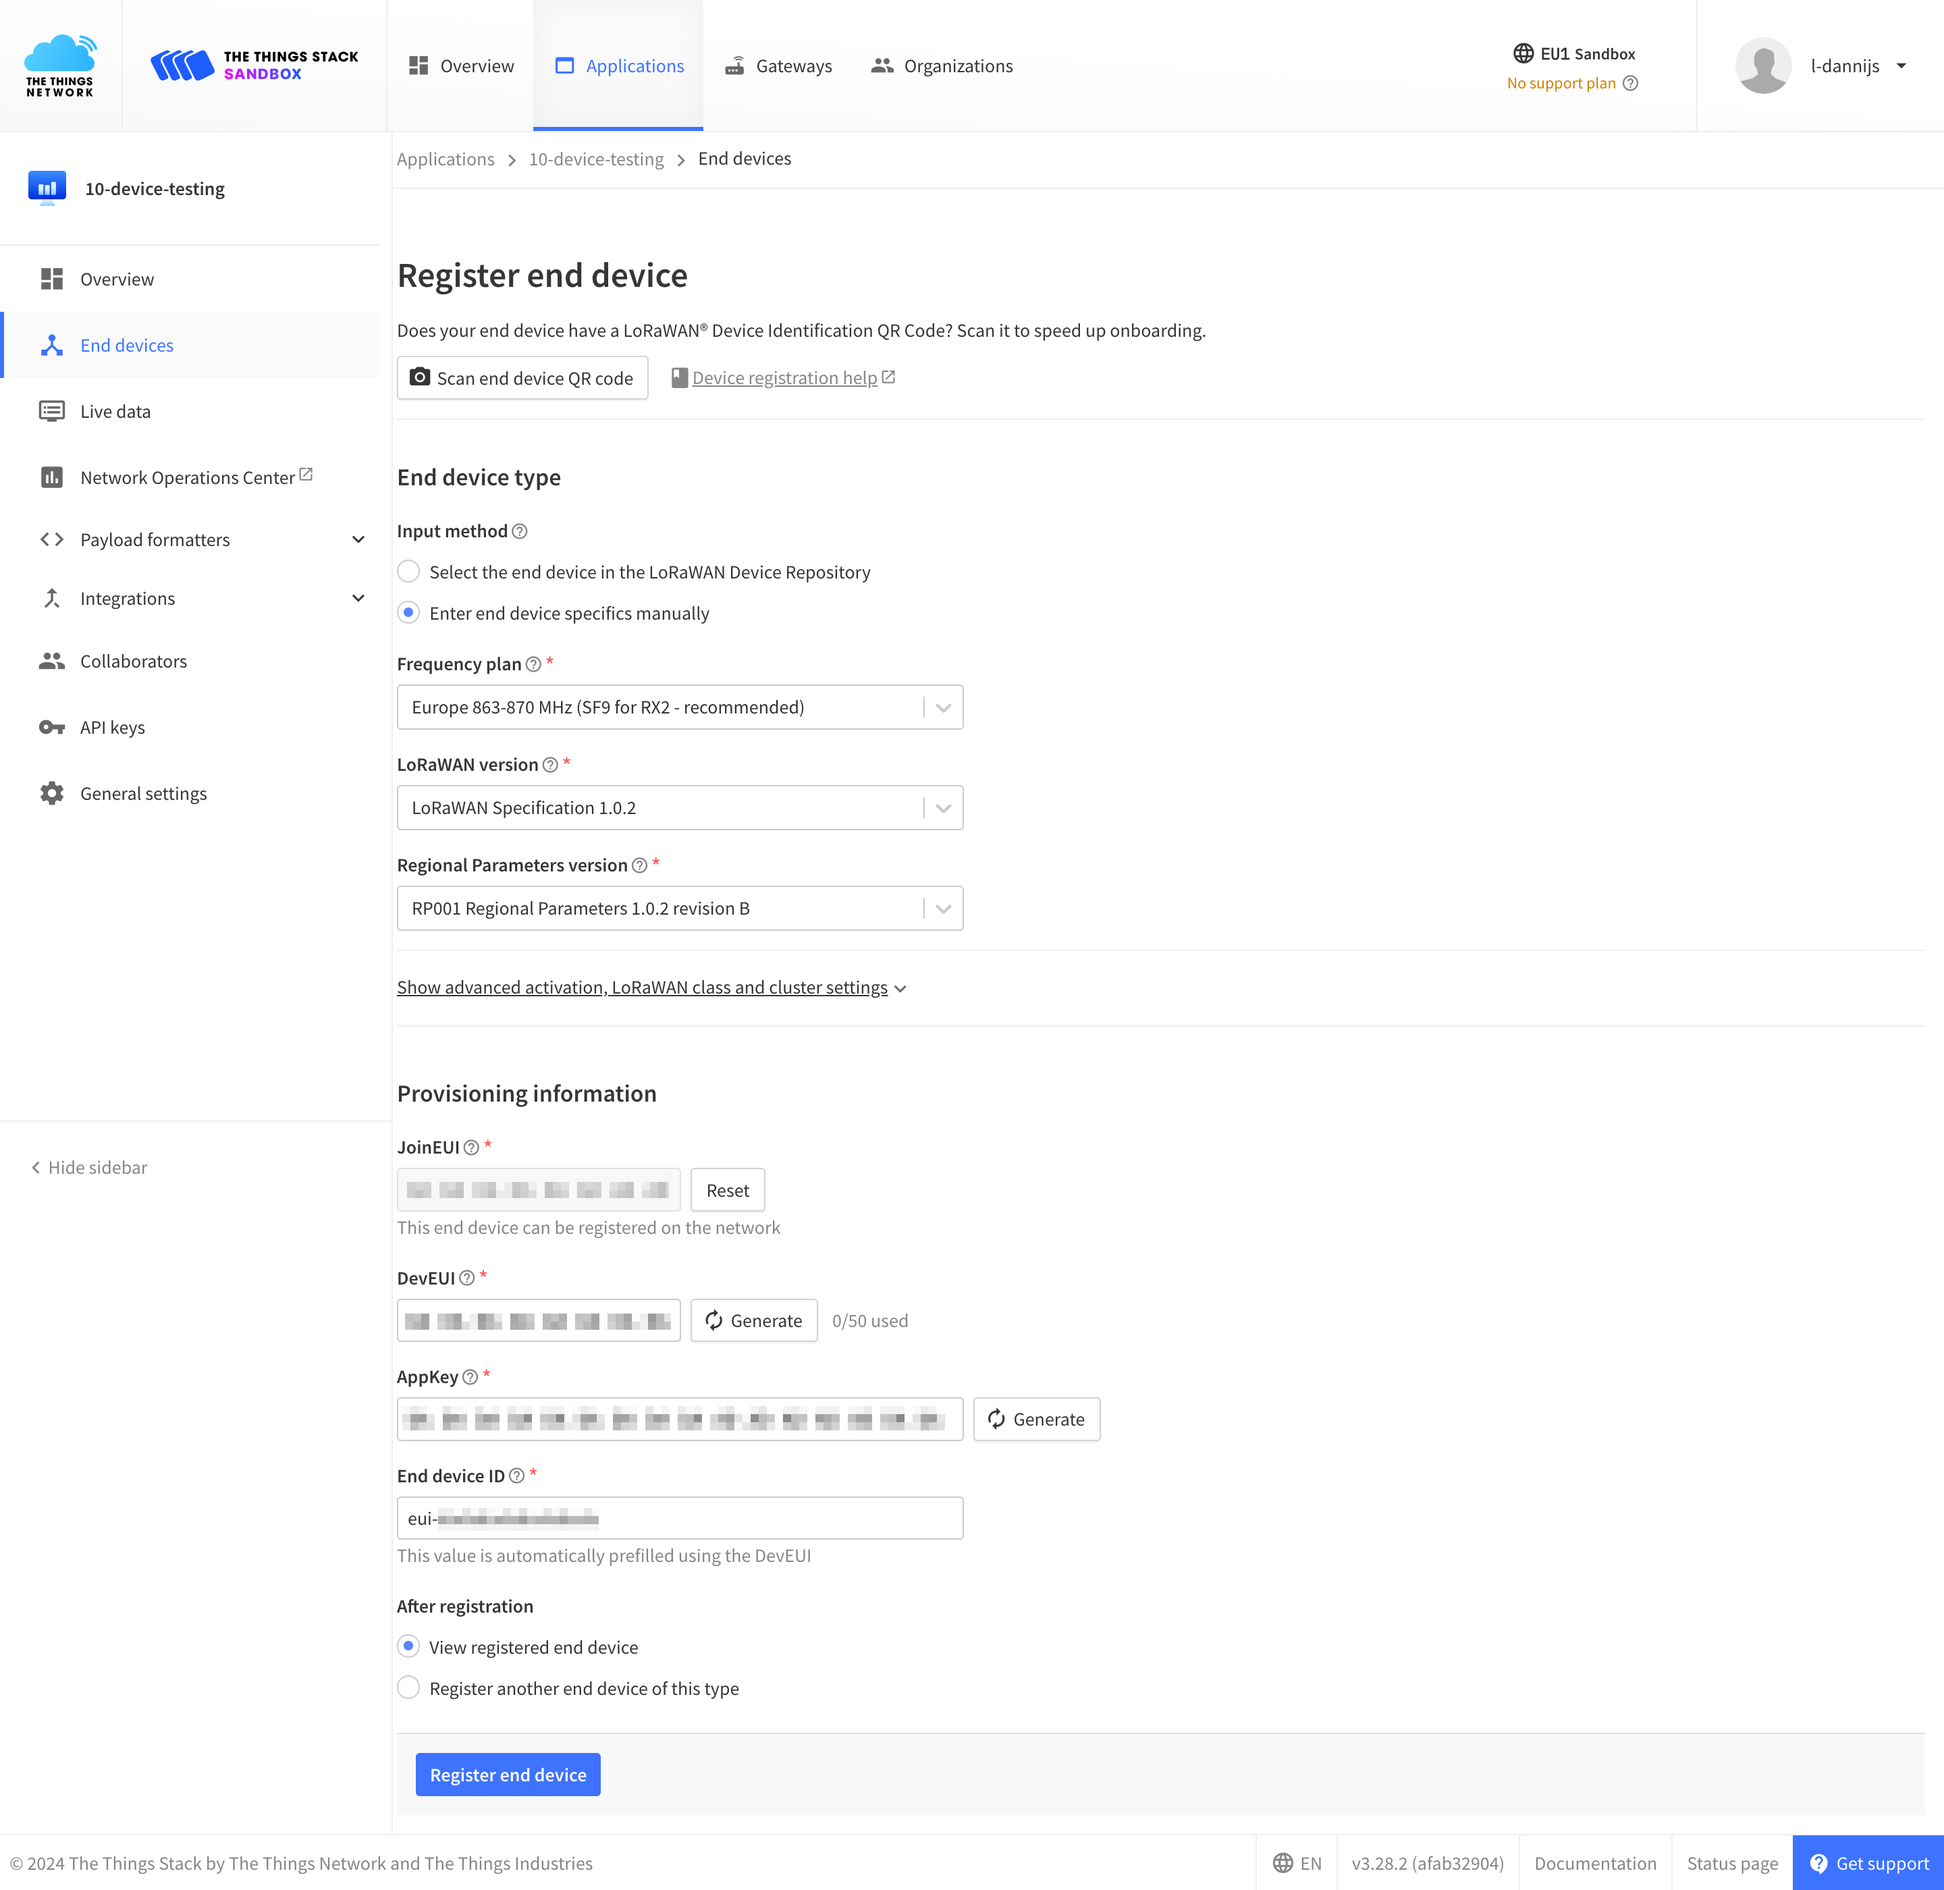
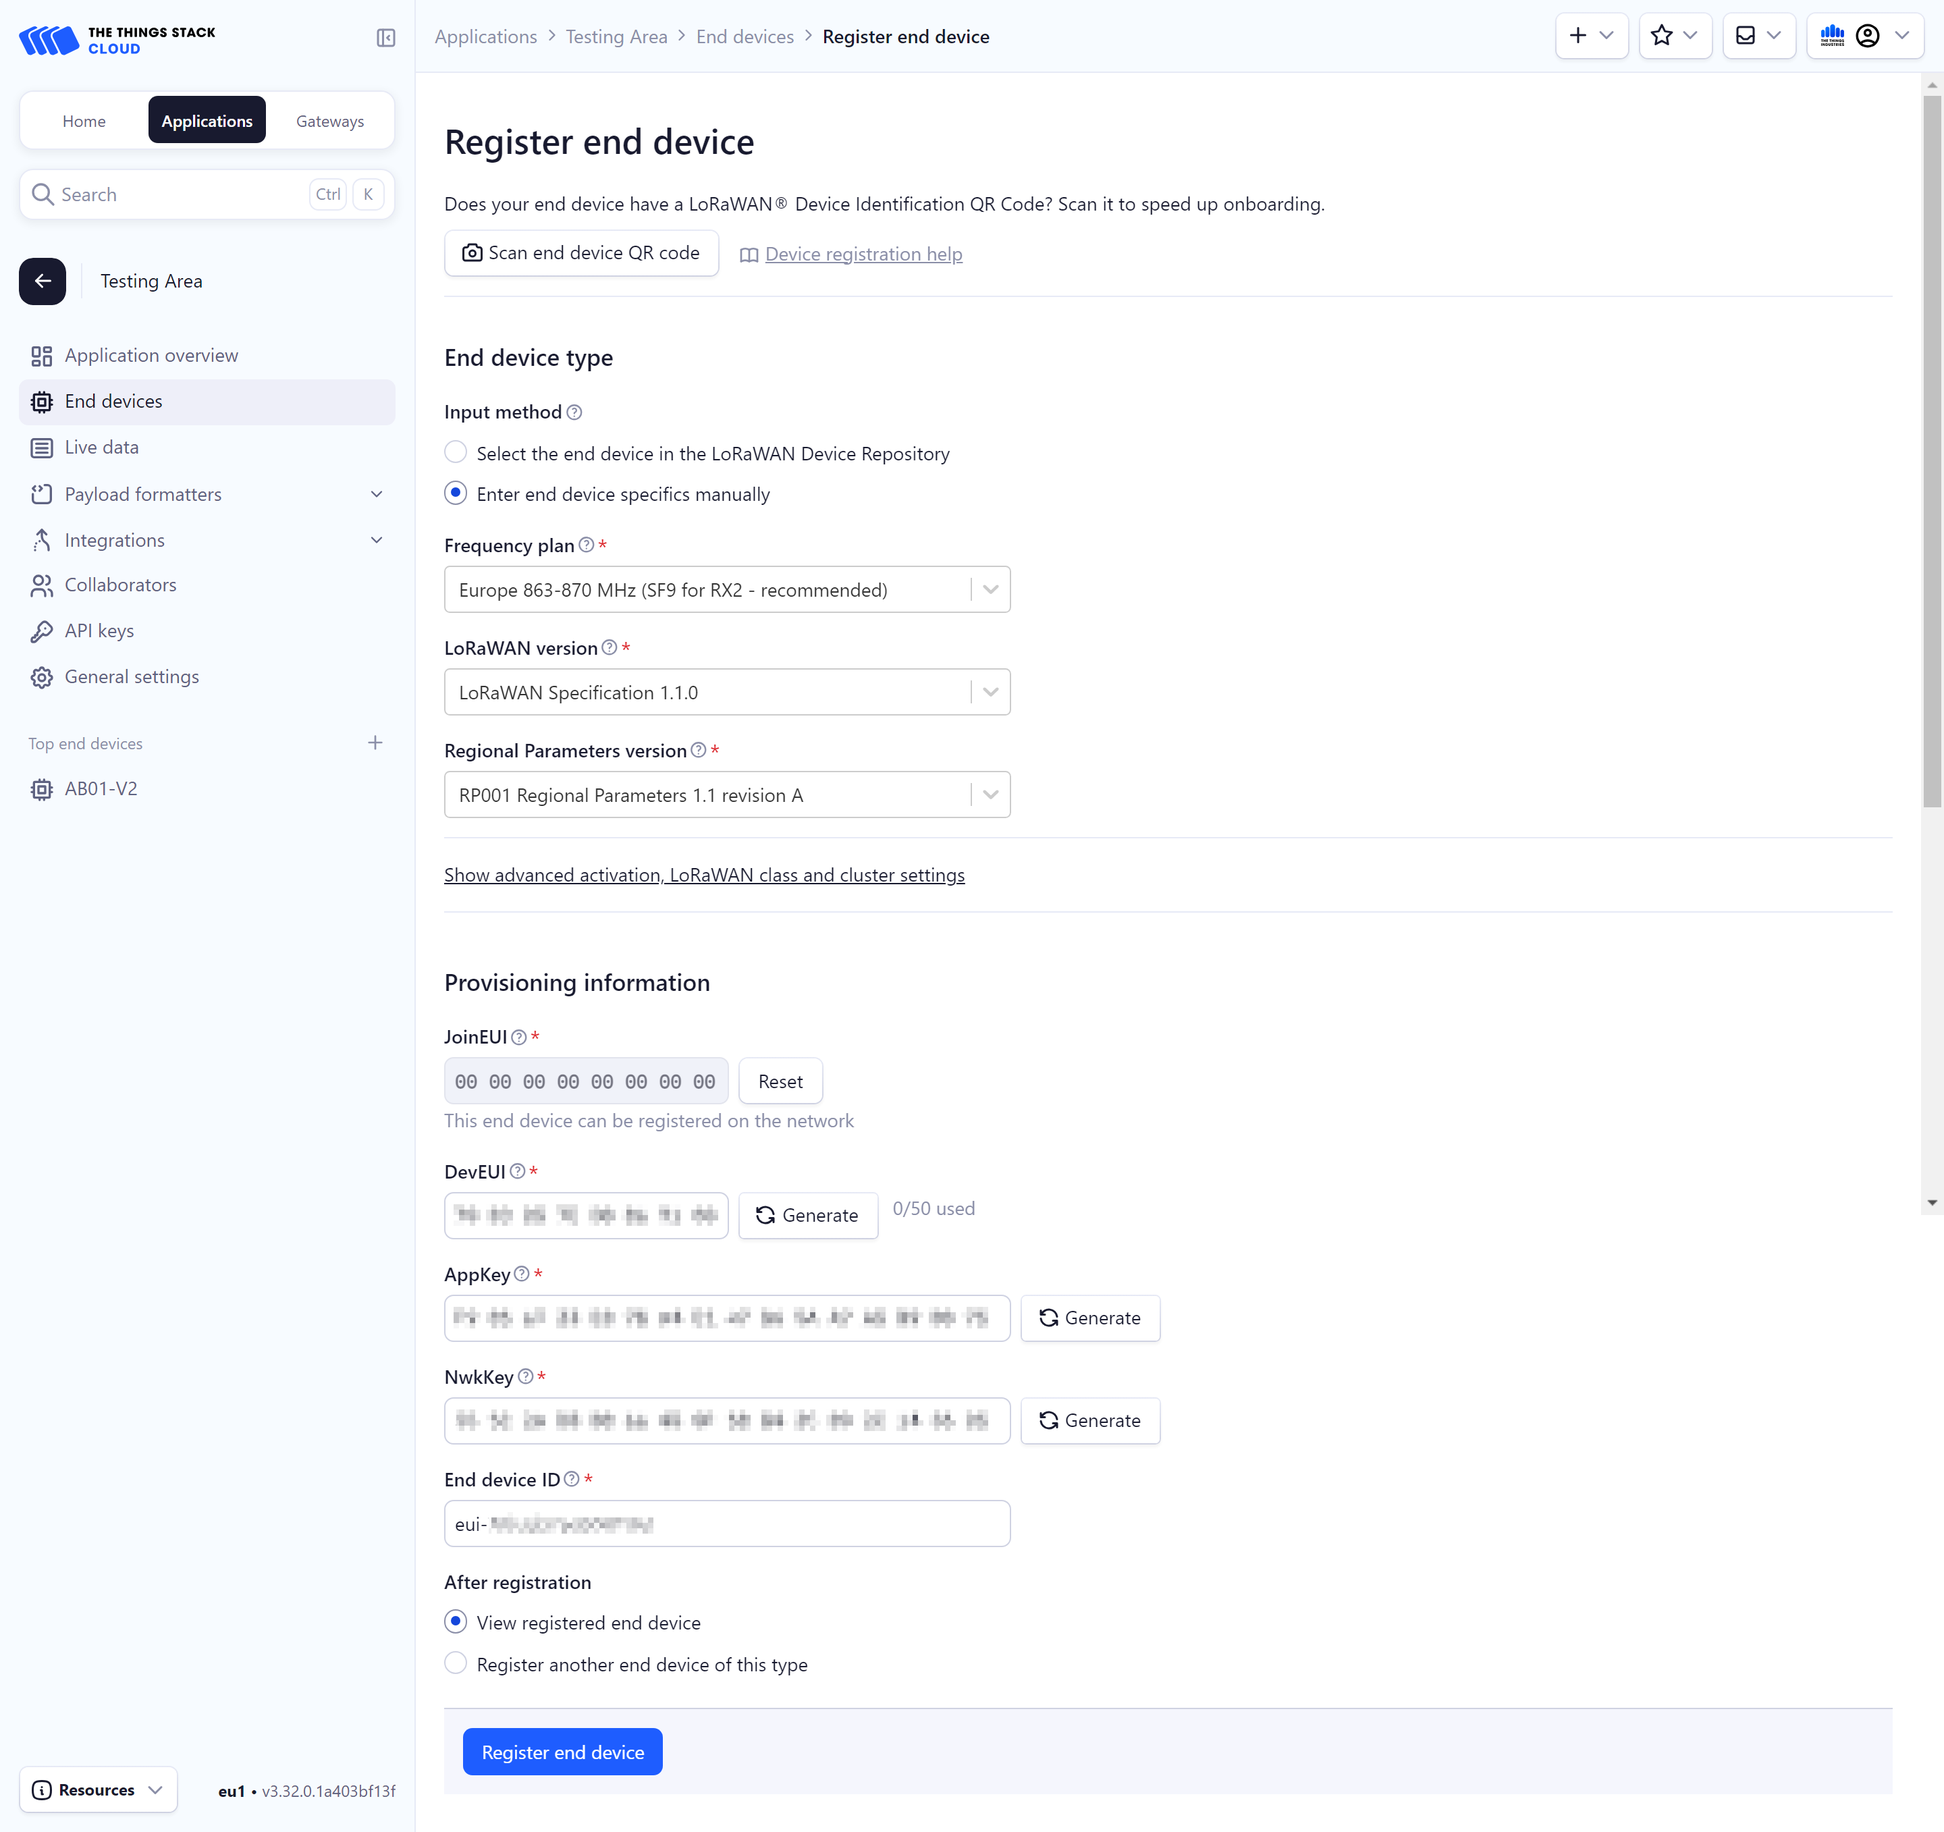
doc: Update images

diff --git a/doc/content/devices/models/lilygo-lora32/index.md b/doc/content/devices/models/lilygo-lora32/index.md
@@ -59,10 +59,11 @@ For the Provisioning information, enter the following details:
 - **JoinEUI:** `0000000000000000`
 - **DevEUI:** Generate by clicking the **Generate** button.
 - **AppKey:** Generate by clicking the **Generate** button.
+- **NwkKey:** Generate by clicking the **Generate** button.
 
 After configuring your device, select the **Register end device** button.
 
-{{< figure src="lora32-manual.png" alt="Settings for manual registration" >}}
+{{< figure src="manual-register.png" alt="Settings for manual registration" >}}
 
 ## Configuring the code
 
@@ -84,7 +85,7 @@ Go back to your Arduino IDE, and go to the `config.h` file. There you should see
 
 In {{% tts %}}, copy the **DevEUI** and replace the `0x---------------` with the devEUI you copied.
 
-For the AppKey and NwkKey, click the **eye** icon and then selecting the **< >** icon. Then copy the **AppKey** by clicking the **Copy to clipboard** button and replace the string in the config file. Repeat this for the **NwkKey**.
+For the AppKey and NwkKey, click the **eye** icon and then selecting the **</>** icon. Then copy the **AppKey** by clicking the **Copy to clipboard** button and replace the string in the config file. Repeat this for the **NwkKey**.
 
 {{< figure src="lora32-activ-info.png" alt="" >}}
 
